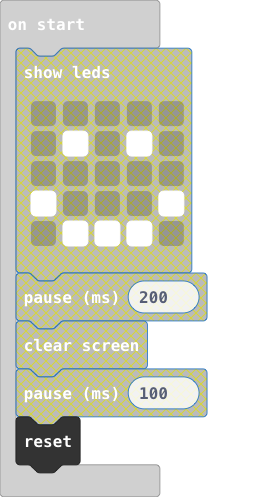
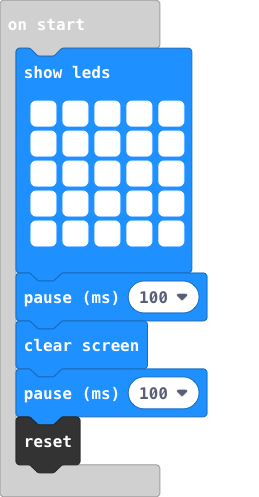
Update main.blocks, main.ts

diff --git a/main.ts b/main.ts
@@ -1,1 +1,11 @@
+basic.showLeds(`
+    # # # # #
+    # # # # #
+    # # # # #
+    # # # # #
+    # # # # #
+    `)
+basic.pause(100)
+basic.clearScreen()
+basic.pause(100)
 control.reset()
